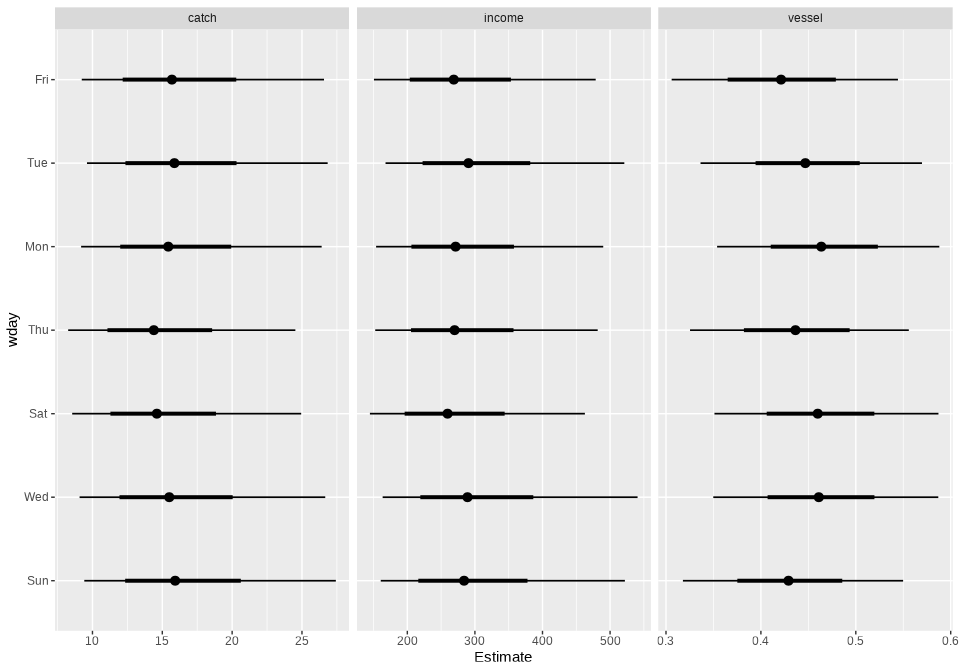
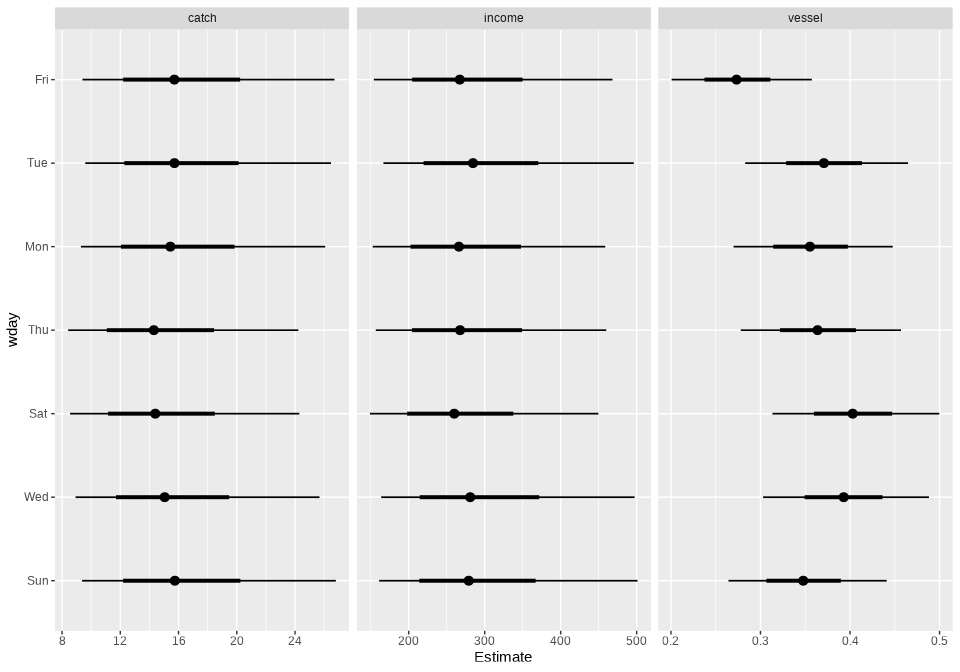
Adjust reporting dates

diff --git a/README.md b/README.md
@@ -1,29 +1,30 @@
 Penang fisheries
 ================
 
-We report data collected between 01 September 2019 and 31 August 2020.
-During this year we recorded information about 724 fishing trips in
-Penang. The information about these trips was contributed by a total of
-46 local fishers and is a combination of tracking and landings.
+We report data collected between 01 September 2019 and 31 August 2021.
+Overall, during these years we recorded information about 2751 fishing
+trips in Penang. The information about these trips was contributed by a
+total of 53 local fishers and is a combination of tracking and landings.
 
-Up to 31 August 2020, WorldFish installed solar-powered GPS trackers
-sourced from Pelagic Data Systems Inc. in 14 boats at four key landing
+Up to 31 August 2021, WorldFish installed solar-powered GPS trackers
+sourced from Pelagic Data Systems Inc. in 21 boats at four key landing
 sites of Teluk Bahang, Balik Pulau, Seagate and Kuala Binjai. Most of
 the trackers were installed in July or August 2020, but three of them
 were installed in September or November 2019 which allow us to get a
-better picture of their activity across the year. Until 31 August 2020
-these units tracked a total of 645 trips.
+better picture of their activity across the year. Until 31 August 2021
+these units tracked a total of 2671 trips.
 
 In addition to the tracking data, we also collected landings data. Data
 collection was performed informally through a WhatsApp group set up with
 participating fishers. In total, we collected landings information for
-177 trips by 35 fishers.
+188 trips by 35 fishers. Landings data is available between 01 September
+2019 and 19 September 2020.
 
 Three of the fishers that contributed landings data also had a tracker
 installed on their boats. Consequently we have both tracking and landing
-data for 98 trips. Most of the landing data, however, comes from the
+data for 108 trips. Most of the landing data, however, comes from the
 single most active fisher in the group. This fisher alone contributed
-landing data for 95 trips which corresponds to about 62% of all their
+landing data for 106 trips which corresponds to about 32% of all their
 fishing trips over the reporting period.
 
 ![](README_files/figure-gfm/tracks-figure-1.png)<!-- -->
@@ -54,22 +55,22 @@ First, we look at the expected catch weight from a single trip. There
 was a lot of variability in the catch weight with some trips fishing as
 little as 0.4kg and some as much as 200kg. Nevertheless, using ten
 thousand Monte Carlo simulations in our Bayesian models, we found that
-the average catch was very likely between 10kg and 23.7kg (90% credible
-intervals, mean 15.9kg). The average catch showed important differences
+the average catch was very likely between 10kg and 23kg (90% credible
+intervals, mean 15.7kg). The average catch showed important differences
 among fishers, with some consistently landing more catch by weight than
 the average. More data from a larger number of fishers will allow us to
 better understand what drives these differences.
 
 Second, we look at the expected income obtained from a fishing trip. We
 found that each fishing trip was very likely to provide an income
-between RM174 and RM443 (mean RM288) to artisanal fishers. Similar as
+between RM170 and RM430 (mean RM283) to artisanal fishers. Similar as
 the catch weight, average income levels showed a large variation. Some
 trips provided only RM0 as income for the fishers while some trips
-provided as much as RM1884.
+provided as much as RM2013.
 
 Third, we investigate the vessel activity coefficient during the study
 period. We found that this coefficient was very likely to be between
-0.36 and 0.54 (mean 0.45). Mathematically, this coefficient can be
+0.28 and 0.44 (mean 0.36). Mathematically, this coefficient can be
 interpreted in two (equivalent) ways. When applied to a single boat, it
 can be interpreted as the probability that this boat would to a fishing
 trip in a given day. When applied to a group of boats, for example the
@@ -87,10 +88,14 @@ during the reporting period, but we expect the updated number to be
 within 50 fishers from the 2018 number. We incorporate this uncertainty
 in all estimates we present.
 
+Because we only have landings information up until 19 September 2020, we
+present estimates for only the first year of our reporting period
+between 01 September 2019 and 31 August 2020.
+
 Using all these pieces of information we estimate that between the
 period 01 September 2019 and 31 August 2020 **artisanal fishers were
-very likely (90% probability) to catch between 2.9 and 7.3 thousand
-tonnes in Penang waters, which provided income between RM49 and RM135
+very likely (90% probability) to catch between 2.3 and 5.7 thousand
+tonnes in Penang waters, which provided income between RM40 and RM106
 million to the local communities**.
 
 ![](README_files/figure-gfm/annual-figure-1.png)<!-- -->
